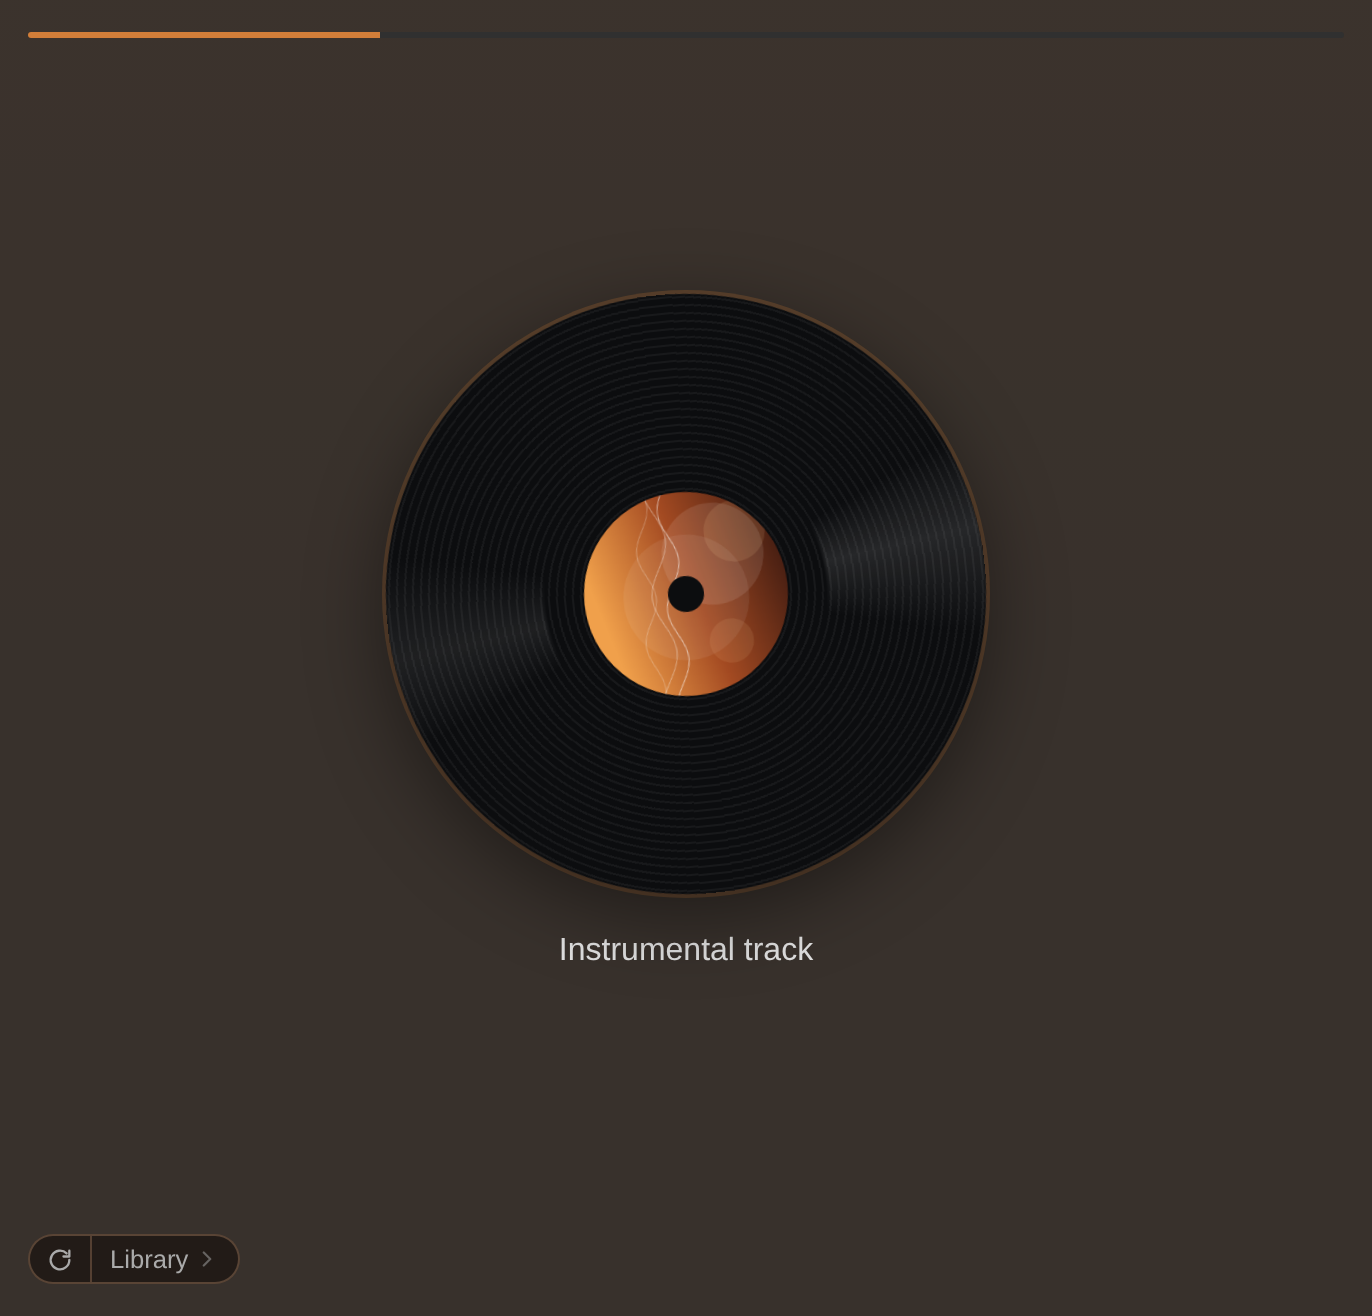
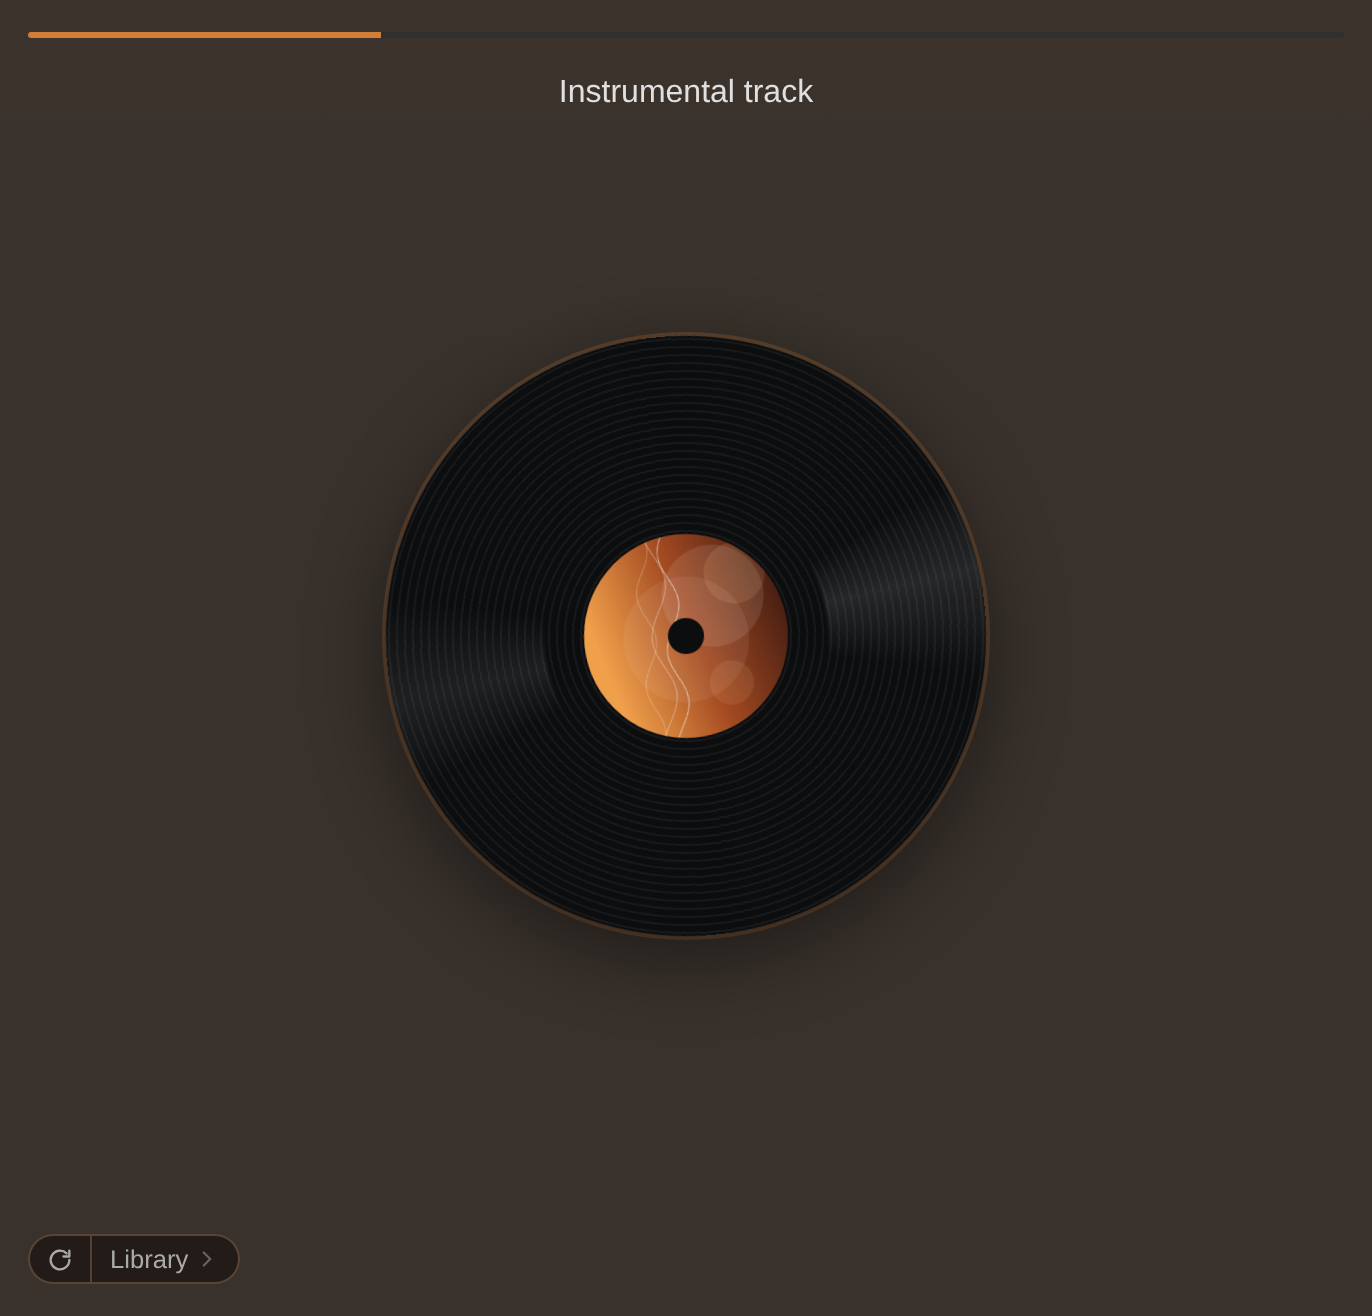
fix(lyrics): keep the empty-state message on the first lyrics line
Under the record, the message jumped between the top of the box and
its middle whenever the chip cycled from a version to an empty state,
or a search gave way to lyrics. In the large layout it now flows as
the box's first line, where the first lyrics line sits, and the
record is centred on the box on its own, sized to leave the message
and a gap free above and below.

Claude-Session: https://claude.ai/code/session_016eBy9VYy6o4ucnsNGQp2DT

diff --git a/static/style.css b/static/style.css
@@ -846,7 +846,6 @@ body.in-app .np-pull {
     display: flex;
     align-items: center;
     justify-content: center;
-    line-height: 1.4;
     white-space: normal;
 }
 
@@ -855,6 +854,7 @@ body.in-app .np-pull {
     align-items: center;
     gap: 14px;
     padding: 4px 0;
+    line-height: 1.4;
     text-align: left;
 }
 
@@ -863,16 +863,27 @@ body.in-app .np-pull {
     color: var(--text);
 }
 
-/* fitVinyl() sizes the record inline; at 0 it cannot inflate the box it measures. */
+/* The message sits where the first lyrics line would; the record is centred on the
+   box above the chip's clearance, wherever the message ends. */
+.np-lyrics.empty.is-roomy {
+    display: block;
+}
+
 .np-lyrics.is-roomy .np-lyrics-empty {
-    flex-direction: column;
-    row-gap: 18px;
+    display: block;
+    padding: 0;
+    line-height: inherit;
     text-align: center;
 }
 
+/* fitVinyl() sizes the record inline; at 0 it cannot inflate the box it measures. */
 .np-lyrics.is-roomy .np-vinyl {
+    position: absolute;
+    top: calc(50% - var(--source-clearance) / 2);
+    left: 50%;
     width: 0;
     height: 0;
+    transform: translate(-50%, -50%);
 }
 
 .np-vinyl {

diff --git a/static/nowplaying.js b/static/nowplaying.js
@@ -636,9 +636,11 @@ function setEmptyLyrics(kind, message) {
 
 var VINYL_MIN = 120;
 var VINYL_MAX = 300;
+var VINYL_GAP = 18;
 
 // The large record needs a box whose height comes from the viewport: one sized
-// by its own content would grow with the record.
+// by its own content would grow with the record. Centred on the box, it leaves
+// the message's height plus a gap free on both sides.
 function fitVinyl() {
     if (!emptyView || emptyView.root.parentNode !== el.lyrics) { return; }
     var box = el.lyrics;
@@ -650,7 +652,7 @@ function fitVinyl() {
     box.classList.add('is-roomy');
     var css = getComputedStyle(box);
     var height = box.clientHeight - parseFloat(css.paddingTop) - parseFloat(css.paddingBottom)
-        - emptyView.text.offsetHeight - parseFloat(getComputedStyle(emptyView.root).rowGap);
+        - 2 * (emptyView.text.offsetHeight + VINYL_GAP);
     var size = Math.floor(Math.min(height, box.clientWidth * 0.6, VINYL_MAX));
     if (size < VINYL_MIN) {
         box.classList.remove('is-roomy');

diff --git a/.claude/skills/frontend/SKILL.md b/.claude/skills/frontend/SKILL.md
@@ -81,7 +81,7 @@ On the stacked layouts the cover is the lever on a short screen: it sets the car
 
 Every state without words goes through `setEmptyLyrics(kind, message)`, never `setLyrics`: `searching`, `none` (nothing found, or the search failed), `hidden` (the cycler's last stop) and `instrumental` — the latter reached from `setLyrics` itself when a version's text is only `[Instrumental]` in some shape (`isInstrumental`, timestamps and brackets stripped), so the chip and the cycle keep working on it. The kind lands in `data-empty` on the box; the box shows `.np-lyrics-empty`, a record (`.np-vinyl`, the card's cover as its label, the sheen fixed above the turning disc) beside a one-line message in the regular weight. The disc turns every 3s, stopped under `.is-paused` (`animation-play-state`) and motionless under `prefers-reduced-motion`.
 
-Two sizes, picked by `fitVinyl` on every paint and on resize. Where the box takes its height from the viewport (`flex-basis: 0`: the wide layouts, and the stacked ones under `html.card-fit`) it goes `.is-roomy`: the record stacks over the text and takes the room left, capped at 300px and 60% of the width, falling back below 120px. Elsewhere (the compact stacked card) it is a 58px record beside two lines, so the box stays the height of a two-line message. `fitCard` calls `fitVinyl` whenever it toggles the fit, which can flip the size. `.is-roomy` zeroes the record's size so the measure never reads a height the record itself inflated.
+Two sizes, picked by `fitVinyl` on every paint and on resize. Where the box takes its height from the viewport (`flex-basis: 0`: the wide layouts, and the stacked ones under `html.card-fit`) it goes `.is-roomy`: the message flows as the box's first line, exactly where the first lyrics line sits, so cycling between a version and an empty state never moves the text, and the record is centred on the box above the chip's clearance, as large as leaves the message's height plus `VINYL_GAP` free on both sides, capped at 300px and 60% of the width, falling back below 120px. Elsewhere (the compact stacked card) it is a 58px record beside two lines, so the box stays the height of a two-line message. `fitCard` calls `fitVinyl` whenever it toggles the fit, which can flip the size. `.is-roomy` zeroes the record's size so the measure never reads a height the record itself inflated.
 
 The empty view's nodes are built once and reused while the box stays empty, so moving from one kind to another only rewrites the text. `.is-fresh` marks a view just put in the box: only then, and only while searching, does the record fade in after 0.4s, so a search that answers quickly never flashes it.
 
